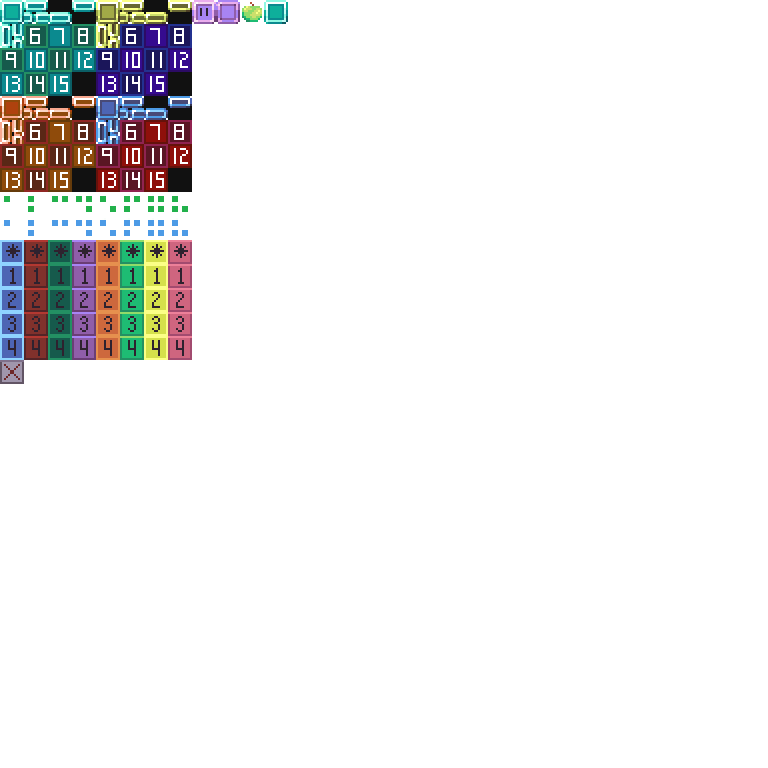
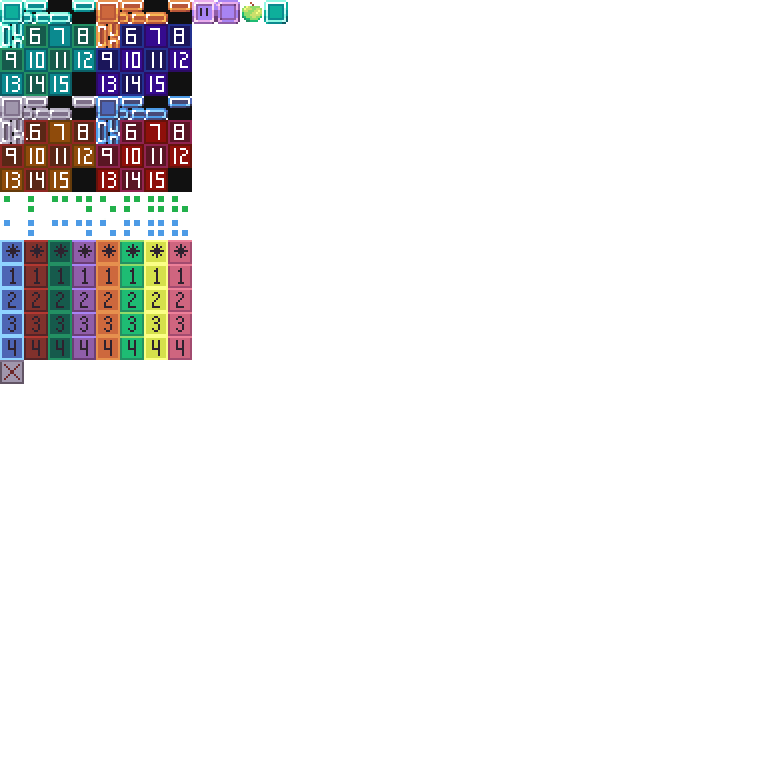
Background Hue Shift
- simple code ready

Changed region(s): [[0.125, 0.0, 0.25, 0.0625], [0.0, 0.125, 0.125, 0.1875]]

diff --git a/games/Phaser-Snake-Game/public/js/SnakeHole.js b/games/Phaser-Snake-Game/public/js/SnakeHole.js
@@ -242,7 +242,7 @@ const STAGES_NEXT = {
     'testing04': [['Stage-02a', 0],['Stage-02b', 120],['Stage-02c', 120],['Stage-02d', 120],['Stage-02e', 105]],
 }
 // #region START STAGE
-const START_STAGE = 'Stage-01';
+const START_STAGE = 'Stage-04';
 var END_STAGE = 'Stage-3a'; // Is var because it is set during debugging UI
 
 
@@ -675,6 +675,28 @@ class GameScene extends Phaser.Scene {
         this.bg3.tileScaleX = 3;
         this.bg3.tileScaleY = 3;
 
+        // Hue Shift
+        this.fx = this.bg.preFX.addColorMatrix();
+        this.fx2 = this.bg0.preFX.addColorMatrix();
+
+
+        if (this.stage === "Stage-04") {
+            this.fx.hue(330);
+        }
+        //this.fx.hue(0);
+        //this.fx2.hue(0);
+
+        /*const tween = this.tweens.addCounter({
+            from: 0,
+            to: 360,
+            duration: 15000,
+            loop: -1,
+            onUpdate: () => {
+                fx.hue(tween.getValue()),
+                fx2.hue(tween.getValue());
+            }
+        });*/
+
 
         let _x = this.snake.head.x;
         let _y = this.snake.head.y;
@@ -714,10 +736,11 @@ class GameScene extends Phaser.Scene {
         //var boostTrailX = this.add.sprite(24, 72).play("boostTrailX01").setOrigin(0,0)
         
         this.lightMasksContainer = this.make.container(0, 0);
-        this.lights.enable();
-        if (!DARK_MODE) { // this checks for false so that an ambient color is NOT created when DARK_MODE is applied
-            this.lights.setAmbientColor(0xE4E4E4);
-        }
+         
+            this.lights.enable();
+            if (!DARK_MODE) { // this checks for false so that an ambient color is NOT created when DARK_MODE is applied
+                this.lights.setAmbientColor(0xE4E4E4);
+            }
         
 
         this.scrollFactorX = 0
@@ -1214,8 +1237,8 @@ class GameScene extends Phaser.Scene {
 
         // #region Coins
 
-        //this.add.sprite(GRID * 7, GRID * 8,'coinPickup01Anim'
-        //    ).play('coin01idle').setDepth(21).setOrigin(.125,.125)
+        this.add.sprite(GRID * 7, GRID * 8,'coinPickup01Anim'
+            ).play('coin01idle').setDepth(21).setOrigin(.125,.125)
 
         //Phaser.Math.RND.pick(nextGroup)
        
@@ -1740,6 +1763,8 @@ class GameScene extends Phaser.Scene {
                 this.bgTimer = 0
             }   
         }
+
+        
         
         
 
